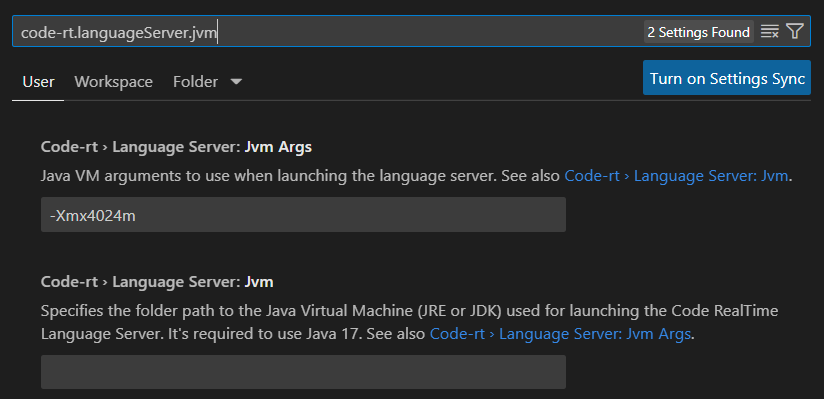
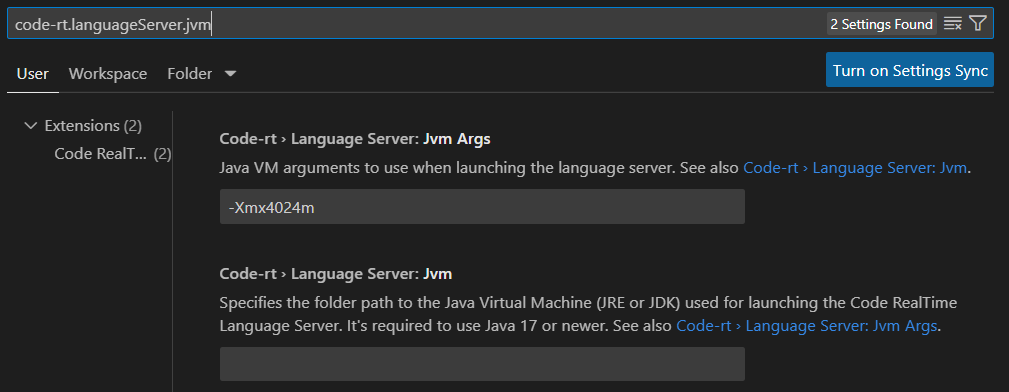
Doc updates for 1.0.4

diff --git a/docs-sources/art-lang/index.md b/docs-sources/art-lang/index.md
@@ -482,7 +482,7 @@ In a structure diagram a port is shown as "stacked" if it has non-single multipl
 
 ![](images/port_multiplicity.png)
 
-You can also use a C++ expression to specify the port multiplicity. This can for example be useful if the multiplicity is defined in C++ as a macro, a template parameter or a constexpr. For example:
+You can also use a C++ expression to specify the port multiplicity. This can for example be useful if the multiplicity is defined in C++ as a macro or a constexpr. For example:
 
 ``` art
 capsule Server {
@@ -692,7 +692,7 @@ Part `c` is optional with multiplicity 0..1. At run-time it can contain at most 
 
 Part `e` is plugin with the default multiplicity 0..1. At run-time at most one instance of capsule `D` can be imported into it. That instance must already have been created in another part, for example part `c`.
 
-Part `f` uses a C++ expression for specifying the multiplicity. This can for example be useful if the multiplicity is defined in C++ as a macro, a template parameter or a constexpr.
+Part `f` uses a C++ expression for specifying the multiplicity. This can for example be useful if the multiplicity is defined in C++ as a macro or a constexpr.
 
 Parts can be shown in a structure diagram:
 
@@ -1363,7 +1363,7 @@ That is, `CALLSUPER` is equivalent to `SUPERMETHOD(rtdata, rtport)`.
 Note that these macros are just a convenience and you can accomplish the same thing if you place the code of the transition code snippet in a virtual capsule member function, which then can be overridden in the sub capsule.
 
 #### Abstract Capsule
-Some capsules are not intended to be instantiated, and just provides a base implementation which other capsules can reuse and specialize by means of inheritance. Such capsules should be declared as **abstract**. By doing so, you can leave the state machine of the abstract capsule incomplete, with only a partial implementation. Validation rules that check the correctness of capsule state machines will not report any problems for state machines of abstract capsules.
+Some capsules are not intended to be instantiated, and just provide a base implementation which other capsules can reuse and specialize by means of inheritance. Such capsules should be declared as **abstract**. By doing so, you can leave the state machine of the abstract capsule incomplete, with only a partial implementation. Validation rules that check the correctness of capsule state machines will not report any problems for state machines of abstract capsules.
 
 Below is an example of an abstract capsule `Base` which provides a partial implementation of a state machine. The capsule `C` inherits from `Base` and extends the inherited state machine to make it complete.
 
@@ -1391,7 +1391,7 @@ The `Base` capsule state machine has a choice `x` without any outgoing transitio
     A capsule that contains one or many pure virtual functions (either locally defined or inherited) is effectively also abstract in the sense that it cannot be instantiated. However, to use a partial state machine in a capsule you need to declare it with the `abstract` keyword. Of course, you can still declare pure virtual functions for an abstract capsule if needed.
 
 !!! example
-    You can find a sample application with an abstract capsule [here]({$vars.github.repo$}/tree/main/art-comp-test/tests/abstract_capsule).
+    You can find a sample application with an abstract capsule [here]({$vars.github.repo$}/tree/main/art-comp-test/tests/abstract_capsule). An example with an abstract capsule that has a pure virtual function can be found [here]({$vars.github.repo$}/tree/main/art-comp-test/tests/capsule_with_abstract_and_purevirtualfunction).
 
 ### Class Inheritance
 A [class with state machine](#class-with-state-machine) can inherit from other classes with state machines, or from C++ classes (or structs). Multiple inheritance is supported.

diff --git a/docs-sources/overview.md b/docs-sources/overview.md
@@ -2,7 +2,7 @@
 
 It runs as an extension of Visual Studio Code or Eclipse Theia. Follow the [installation instructions](../installing) for installing it.
 
-{$product.name$} supports the [Art language](../art-lang) which extends the C++ language with high-level concepts useful when designing stateful, event-driven realtime applications, such as capsules, state machines and protocols. It is a textual language, but also provides a graphical notation that includes class, state and structure diagrams.
+{$product.name$} supports the [Art language](../art-lang) which extends the C++ language with high-level concepts useful when designing stateful, event-driven realtime applications. Examples of such concepts include capsules, state machines and protocols. Art is a textual language, but also provides a graphical notation that includes class, state and structure diagrams.
 
 {$product.name$} translates Art files into efficient C++ code which can be compiled on any target system. The generated code makes use of the [Target RunTime System](../target-rts) which is a C++ library that implements the concepts of the Art language.
 
@@ -13,7 +13,7 @@ The Art language as implemented in {$product.name$} builds on a foundation with 
 
 In 2000 ObjectTime was acquired by Rational Software and ObjecTime Developer was merged with Rational Rose, a UML modeling tool. The result was Rational Rose RealTime (Rose RT). At the same time many of the ROOM language concepts made its way into the, by then, new modeling language called UML-RealTime.
 
-In 2003 Rational Software was acquired by IBM which at the time was investing heavily in the Eclipse platform. As a result work started to create an Eclipse-based tool as the successor of Rose RT. This new product got the name Rational Software Architect RealTime Edition (RSARTE) and was first released in 2007.
+In 2003 Rational Software was acquired by IBM which at the time was investing heavily in the Eclipse platform. As a result, work started to create an Eclipse-based tool as the successor of Rose RT. This new product got the name Rational Software Architect RealTime Edition (RSARTE) and was first released in 2007.
 
 In 2016 HCL entered a partnership with IBM, which led to a rebranded version of RSARTE called HCL RTist. A few years later both RSARTE and RTist were renamed to [DevOps Model RealTime](https://model-realtime.hcldoc.com/help/topic/com.ibm.xtools.rsarte.webdoc/users-guide/overview.html).
 

diff --git a/docs-sources/validation.md b/docs-sources/validation.md
@@ -15,7 +15,7 @@ Each validation rule has a default severity which will be used for the problems 
 You can customize the default severity of any validation rule, and you can also choose to completely disable a certain validation rule that you don't think provides any value. See [Configuring Validation](#configuring-validation) for more information.
 
 ## Problem Reporting
-When a validation rule has found a problem in an Art file, it is marked by underlining one or several Art elements in the file. The underlining is red for errors, yellow for warnings and blue for information messages. For example, in the capsule shown below one warning and two errors have been found.
+When a validation rule has found a problem in an Art file, it is marked by underlining one or several Art elements in the file. The underlining is <span style="color: red;">red</span> for errors, <span style="color: orange;">orange</span> for warnings and <span style="color: blue;">blue</span> for information messages. For example, in the capsule shown below one warning and two errors have been found.
 
 ![](images/problem_underlining.png)
 
@@ -23,7 +23,7 @@ You can hover the cursor over these underlinings to get a tooltip with informati
 
 ![](images/problem_hover.png)
 
-Often a problem may be associated with more than one Art element. There is a main element on which the problem will be shown, but there often also are other elements that are related to the problem in one way or another. You can navigate to related elements to get a better understanding of why a problem is reported and how to fix it. In the screenshot above the problem has a single related element (the capsule `tlSystem`) but in general a problem can have an arbitrary number of related elements.
+Often a problem may be associated with more than one Art element. There is a main element on which the problem will be shown, but there often also are other elements that are related to the problem in one way or another. You can navigate to related elements to get a better understanding of why a problem is reported and how to fix it. In the screenshot above the problem has a single related element (the capsule `Another`) but in general a problem can have an arbitrary number of related elements.
 
 Problems are also reported by means of icons in diagrams. Below are three states with problems of different severity:
 

diff --git a/docs-sources/building/launch-configurations.md b/docs-sources/building/launch-configurations.md
@@ -8,7 +8,7 @@ A more flexible way to launch an executable is to use a **launch configuration**
 
 * Visual Studio Code and Eclipse Theia knows about launch configurations and provides a dedicated UI for working with them.
 * You can easily manage multiple ways of launching the same application. Just create a launch configuration for each way of launching it.
-* The output from the launched application is printed in the Debug Console rather than the Terminal view. The Debug Console colorizes printed output from the application (red for text printed to stderr and orange for text printed to stdout).
+* The output from the launched application is printed in the Debug Console rather than the Terminal view. The Debug Console colorizes printed output from the application (<span style="color: red;">red</span> for text printed to stderr and <span style="color: orange;">orange</span> for text printed to stdout).
 * You can terminate and relaunch the application using a toolbar instead of using the Terminal view.
 
 ## Creating a Launch Configuration

diff --git a/docs-sources/installing.md b/docs-sources/installing.md
@@ -69,7 +69,7 @@ You can install multiple versions of {$product.name$} by using the portable mode
 After a successful installation you need to perform a few configuration steps before you can start to use {$product.name$}.
 
 #### Setup Java
-{$product.name$} uses a Java language server and hence needs a Java Virtual Machine (JVM). It's required to use a Java 17 JVM, or newer. If an appropriate JVM cannot be found when the {$product.name$} extension is activated (which for example happens the first time you open an Art file), you will receive an error message.
+{$product.name$} uses a Java language server and hence needs a Java Virtual Machine (JVM). It's required to use a JVM for Java 17 or newer. If an appropriate JVM cannot be found when the {$product.name$} extension is activated (which for example happens the first time you open an Art file), you will receive an error message.
 
 {$product.name$} follows the steps below in priority order when it looks for an appropriate JVM to use:
 
